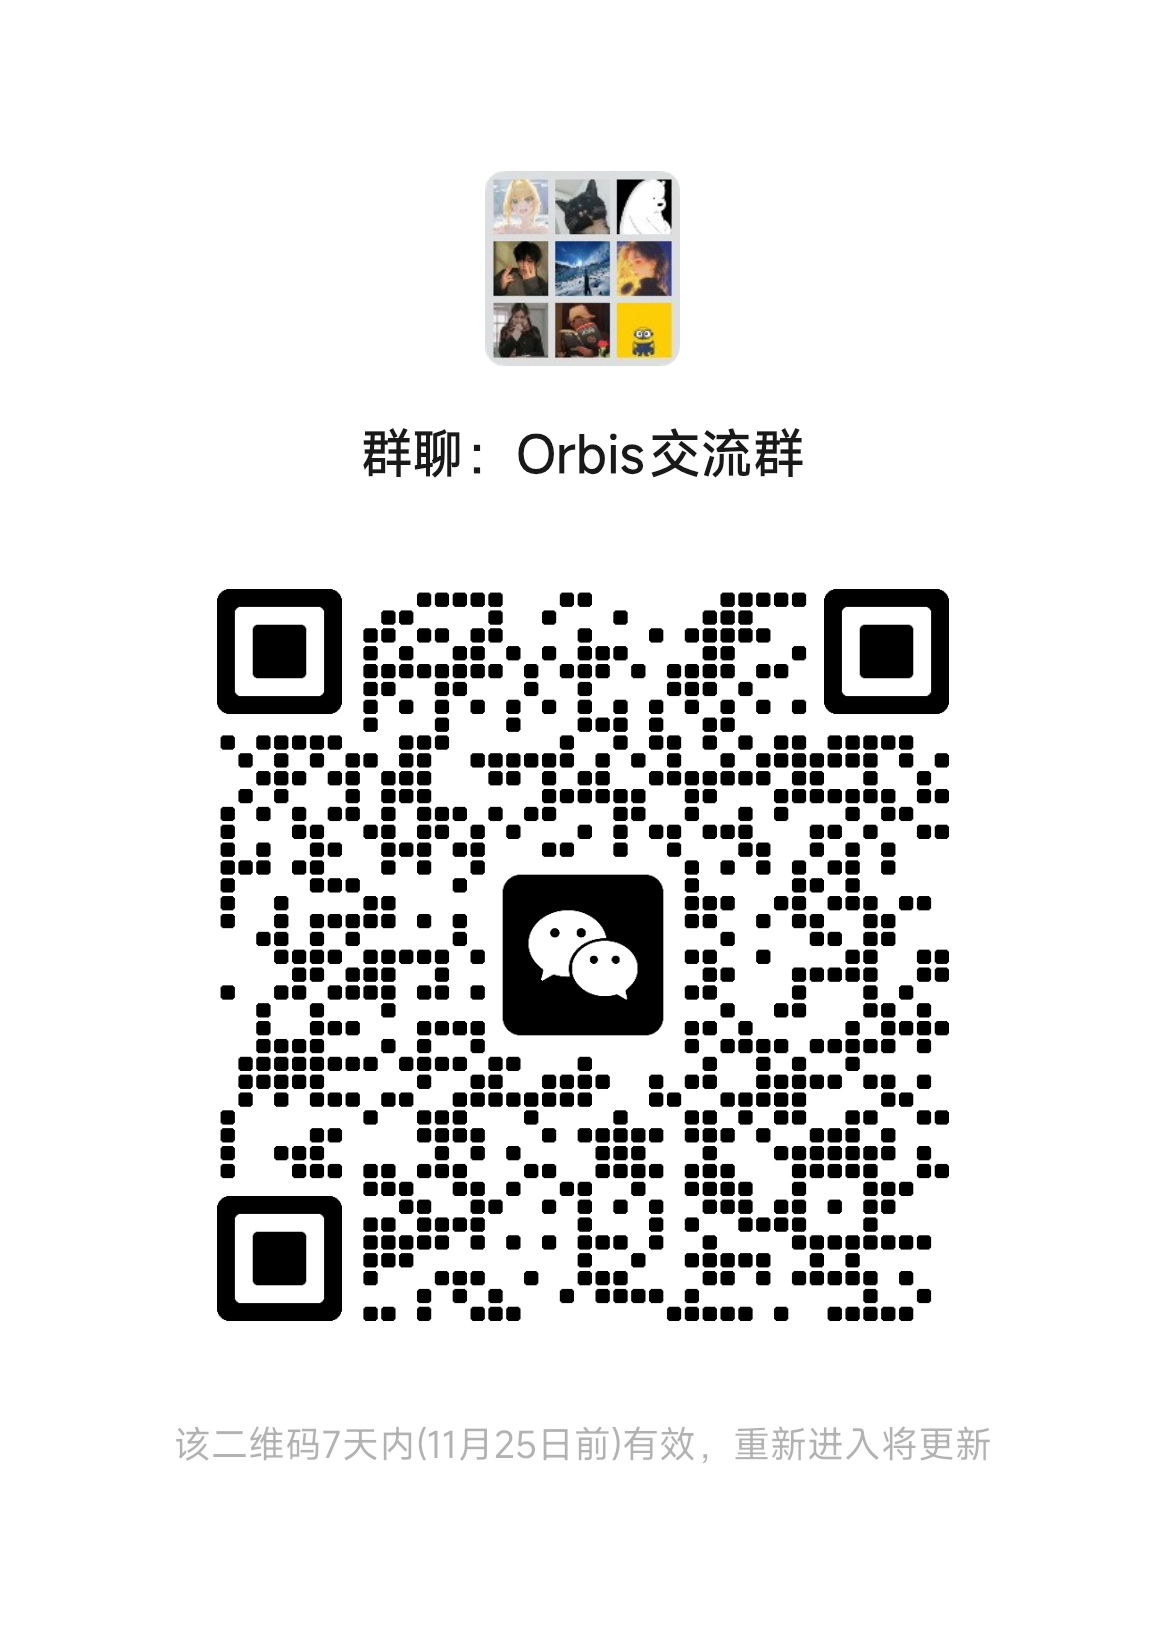
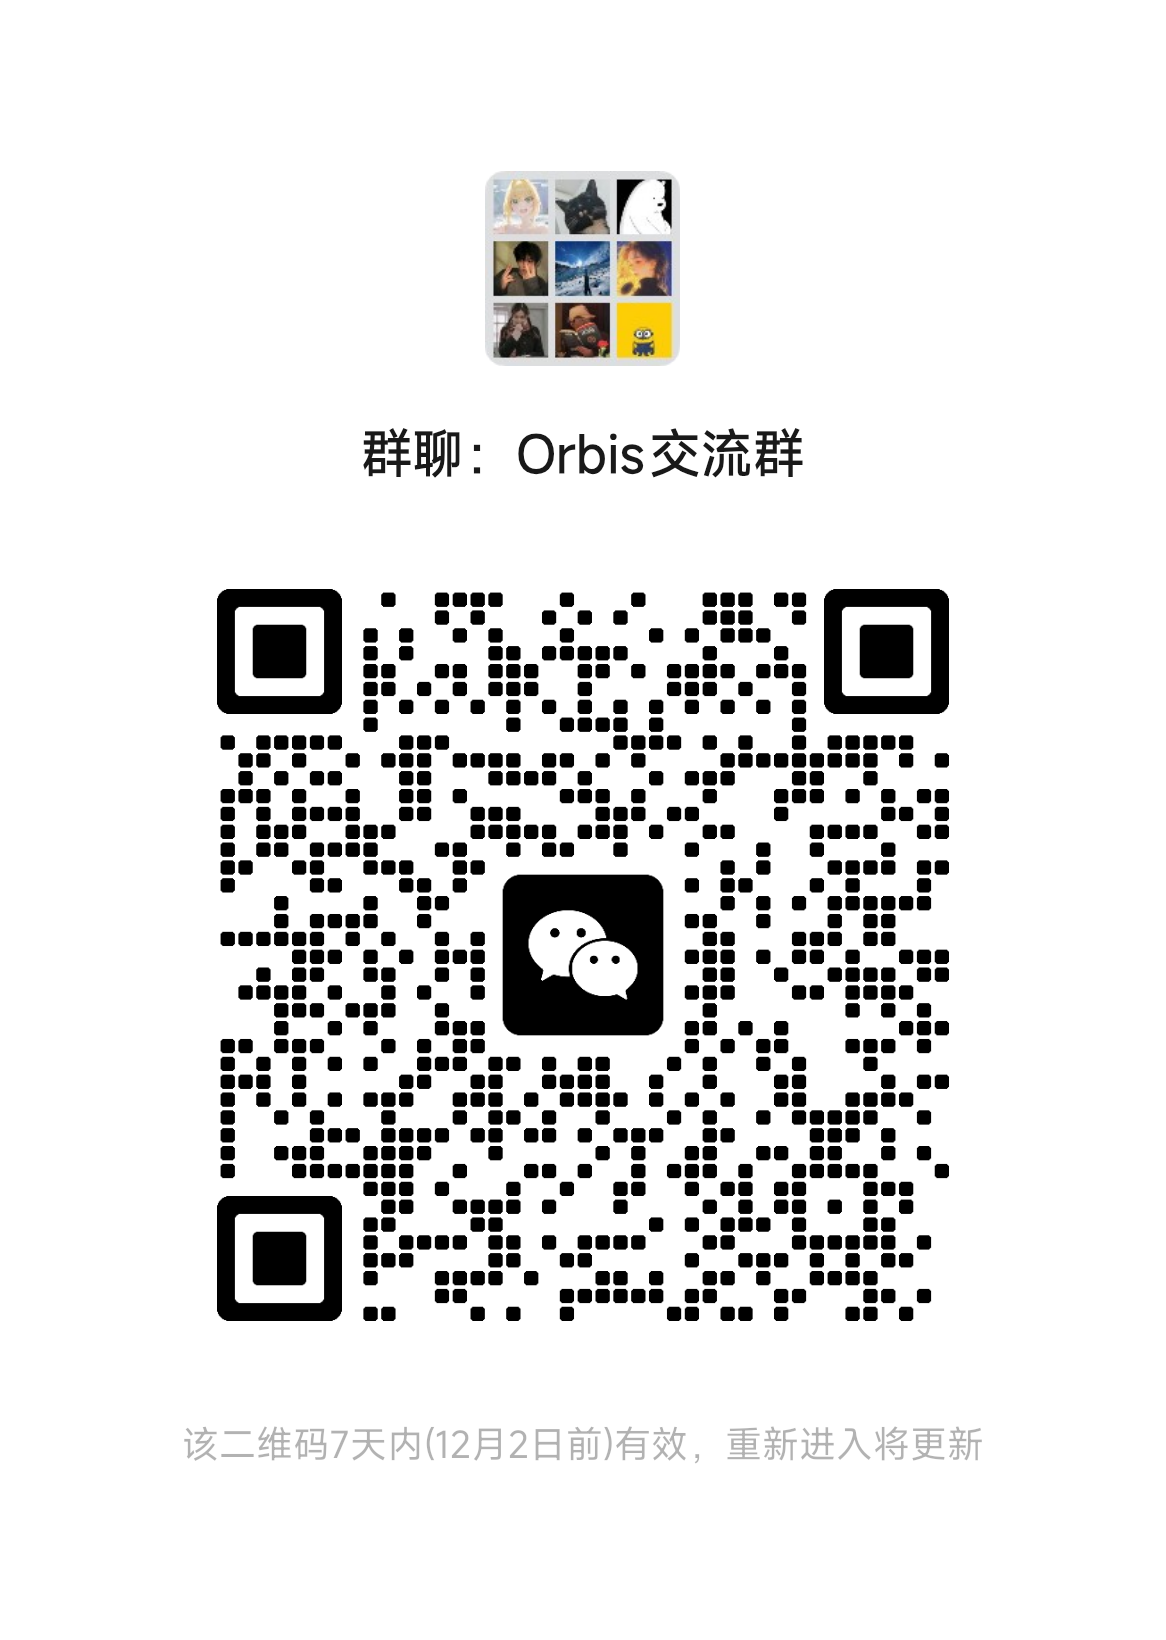
feat: publish WeChat QR at stable server URL

diff --git a/docs/deployment.md b/docs/deployment.md
@@ -113,3 +113,14 @@ QQ email verification defaults to required. In the console's Service page, the o
 Back up `shared/relay.env`, all `shared/data/` files, and download checksums privately. The Relay device store, registration store and administrator policy/audit store must migrate together. Host pairing keys remain private to each computer and phone. Stop writes briefly for the final state copy when moving servers, then verify hashes and resume traffic.
 
 For existing clients with the former Relay URL, keep that hostname as a reverse proxy to the new Relay until clients have migrated. Maintain one authoritative writable Relay state after cutover.
+
+## WeChat group QR
+
+`README.md` and `README.en.md` use the stable public URL
+`https://orbising.com/downloads/wechat-group.png`. When
+`docs/assets/weixinqrcode.png` changes on `main`, the **Publish WeChat QR**
+workflow uploads it to the existing Nginx downloads directory, atomically
+replaces the served image, and verifies the public SHA-256. To refresh the
+image, generate a new group QR in WeChat and replace that source file; no README
+or server configuration edit is needed. The QR itself remains subject to
+WeChat's seven-day expiry.

diff --git a/README.en.md b/README.en.md
@@ -91,10 +91,10 @@ Your agents run on your own computer. Conversations and file transfers between y
 Share your experience, suggest improvements, or discuss a problem with other users. Scan the code below in WeChat to join the **Orbis community group**.
 
 <p align="center">
-  <img src="docs/assets/weixinqrcode.png" width="360" alt="Orbis WeChat community QR code, valid before November 25, 2026">
+  <img src="https://orbising.com/downloads/wechat-group.png" width="360" alt="Orbis WeChat community QR code, valid for 7 days after generation">
 </p>
 
-The QR code is marked as valid **before November 25, 2026**. If it has expired, request a fresh code through [GitHub Issues](https://github.com/WGooold/Orbis/issues). When reporting a problem, include your device OS, Orbis version, and steps to reproduce it.
+The QR code is valid for **7 days after generation**; reopen the QR-code page in WeChat to refresh it. If it has expired, request a fresh code through [GitHub Issues](https://github.com/WGooold/Orbis/issues). When reporting a problem, include your device OS, Orbis version, and steps to reproduce it.
 
 ## Open source and license
 
